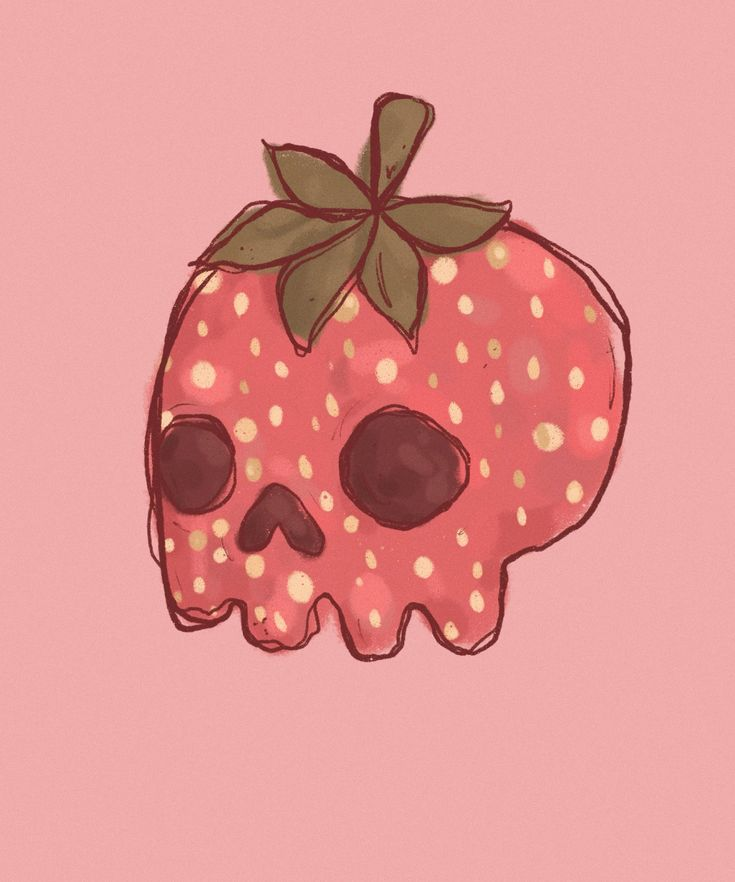
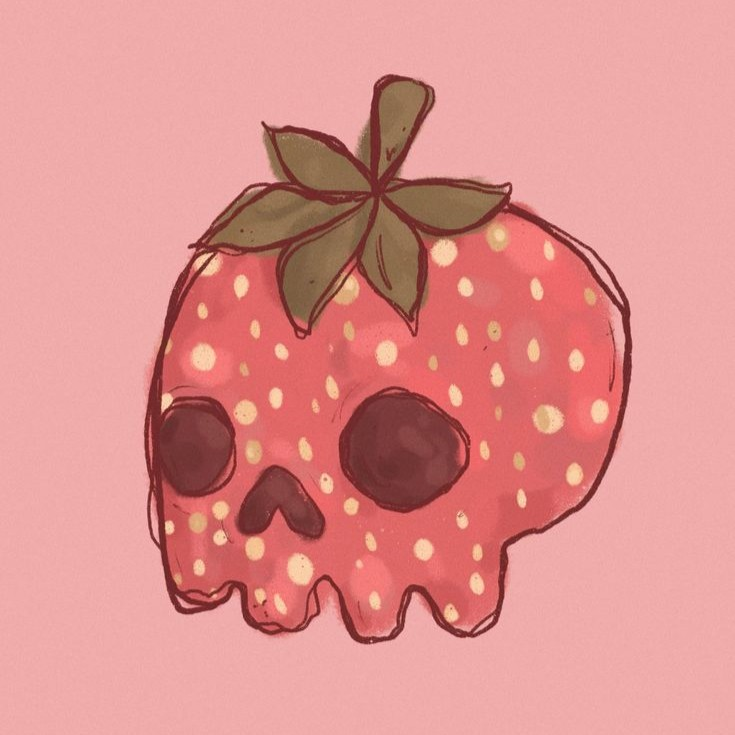
hero section done

Changed region(s): [[0.1796, 0.1197, 0.868, 0.898], [0.5088, 0.0898, 0.5687, 0.1197]]

diff --git a/style.css b/style.css
@@ -55,3 +55,42 @@ header a {
     text-decoration: none;
     color: black;
 }
+
+
+#hero {
+    width: 100%;
+    display: flex;
+    justify-content: space-around;
+    align-items: center;
+    gap: 1rem;
+    align-items: center;
+    padding: 5rem 6rem;
+    /* background-color: aqua; */
+}
+
+#hero .hero-profile {
+    height: 25rem;
+    width: 25rem;
+    /* background-color: red; */
+}
+
+#hero .hero-profile img {
+    height: 100%;
+    width: 100%;
+}
+
+#hero .hero-text {
+    /* margin-right: -2rem; */
+    /* background-color: cornflowerblue; */
+}
+
+#hero .hero-text h2 {
+    font-size: 3rem;
+    /* color: #695347; */
+    color: #5e7a53;
+}
+
+#hero .hero-text h1 {
+    font-size: 6rem;
+    color: #f7a0b8;
+}

diff --git a/index.html b/index.html
@@ -29,7 +29,16 @@
     </header>
 
     <!-- HERO -->
-    <section id="hero"></section>
+    <section id="hero">
+        <div class="hero-text">
+            <h2>hi, me is</h2>
+            <h1>strawberry <br> skeleton</h1>
+        </div>
+
+        <div class="hero-profile">
+            <img src="./assets/profile.jpg" alt="strawberry skeleton profile pic">
+        </div>
+    </section>
 
     <!-- ABOUT -->
     <section id="about"></section>
